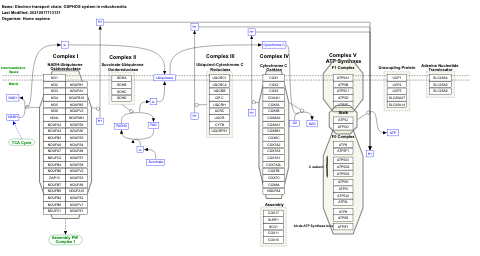
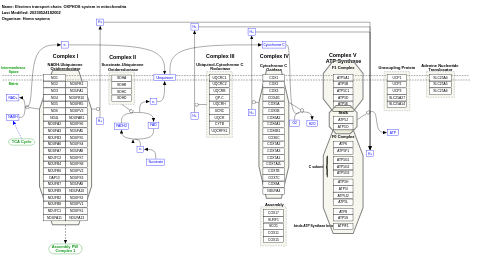
Update tsv, md and png files

Changed region(s): [[0.0, 0.0625, 0.9688, 0.9688], [0.0, 0.0, 0.25, 0.0938], [0.0938, 0.9062, 0.1875, 0.9688]]

diff --git a/_pathways/WP3527.md b/_pathways/WP3527.md
@@ -4,10 +4,6 @@ annotations:
   parent: regulatory pathway
   type: Pathway Ontology
   value: regulatory pathway
-- id: PW:0002426
-  parent: regulatory pathway
-  type: Pathway Ontology
-  value: altered regulatory pathway pertinent to the brain
 - id: PW:0000650
   parent: signaling pathway
   type: Pathway Ontology
@@ -34,15 +30,15 @@ description: 'The source of this pathway is RNA-Seq data from single-cell pre-im
   that are reported in this pathway.  Proteins on this pathway have targeted assays
   available via the [https://assays.cancer.gov/available_assays?wp_id=WP3527 CPTAC
   Assay Portal]'
-last-edited: 2022-01-11
+last-edited: 2023-05-25
 ndex: d47bcba1-8b66-11eb-9e72-0ac135e8bacf
 organisms:
 - Homo sapiens
 redirect_from:
 - /index.php/Pathway:WP3527
 - /instance/WP3527
-- /instance/WP3527_r120810
-revision: r120810
+- /instance/WP3527_r126527
+revision: r126527
 schema-jsonld:
 - '@context': https://schema.org/
   '@id': https://wikipathways.github.io/pathways/WP3527.html

diff --git a/_pathways/WP5354.md b/_pathways/WP5354.md
@@ -1,9 +1,5 @@
 ---
 annotations:
-- id: PW:0001304
-  parent: classic metabolic pathway
-  type: Pathway Ontology
-  value: cholesterol metabolic pathway
 - id: PW:0000959
   parent: signaling pathway
   type: Pathway Ontology
@@ -16,20 +12,24 @@ annotations:
   parent: classic metabolic pathway
   type: Pathway Ontology
   value: cholesterol biosynthetic pathway
+- id: PW:0001304
+  parent: classic metabolic pathway
+  type: Pathway Ontology
+  value: cholesterol metabolic pathway
 authors:
 - Conroy lipids
 - Ash iyer
 - Egonw
 - AlexanderPico
 description: Ergosterol biosynthesis in yeast
-last-edited: 2023-05-01
+last-edited: 2023-05-25
 organisms:
 - Saccharomyces cerevisiae
 redirect_from:
 - /index.php/Pathway:WP5354
 - /instance/WP5354
-- /instance/WP5354_r126457
-revision: r126457
+- /instance/WP5354_r126523
+revision: r126523
 schema-jsonld:
 - '@context': https://schema.org/
   '@id': https://wikipathways.github.io/pathways/WP5354.html

diff --git a/_pathways/WP111.md b/_pathways/WP111.md
@@ -84,15 +84,15 @@ description: 'An electron transport chain(ETC) couples a chemical reaction betwe
   that drives the transfer of H+ ions. Source: Wikipedia ([[wikipedia:Electron_transport_chain]])  Proteins
   on this pathway have targeted assays available via the [https://assays.cancer.gov/available_assays?wp_id=WP111
   CPTAC Assay Portal]'
-last-edited: 2021-05-17
+last-edited: 2023-05-25
 ndex: c1699c36-8b5f-11eb-9e72-0ac135e8bacf
 organisms:
 - Homo sapiens
 redirect_from:
 - /index.php/Pathway:WP111
 - /instance/WP111
-- /instance/WP111_r117097
-revision: r117097
+- /instance/WP111_r126524
+revision: r126524
 schema-jsonld:
 - '@context': https://schema.org/
   '@id': https://wikipathways.github.io/pathways/WP111.html
@@ -168,6 +168,8 @@ schema-jsonld:
   - ND6
   - NDUFA1
   - NDUFA10
+  - NDUFA11
+  - NDUFA13
   - NDUFA2
   - NDUFA3
   - NDUFA4
